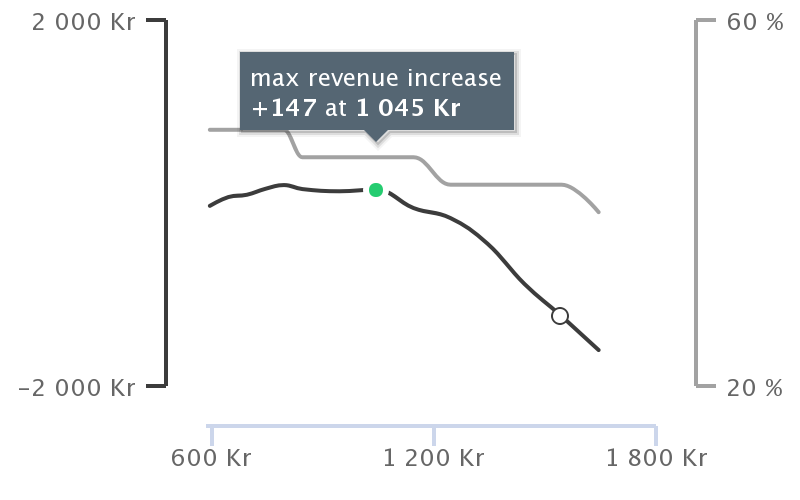
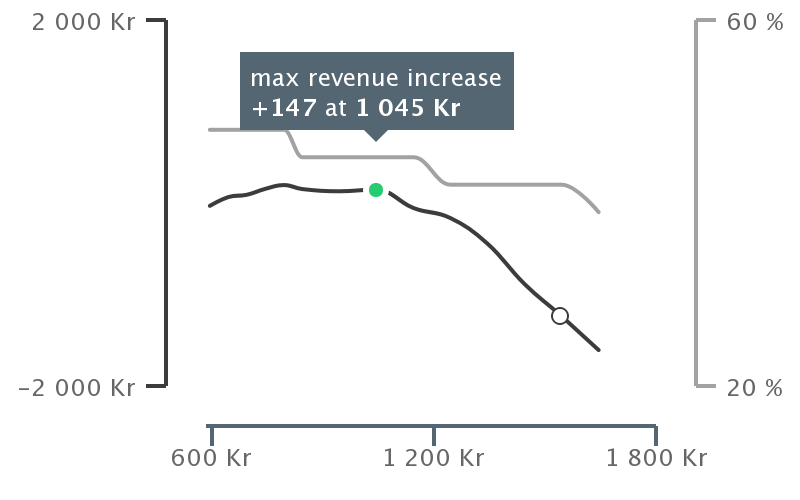
Adding Outlook font fix

Changed region(s): [[0.25, 0.84, 0.8438, 0.9], [0.2812, 0.09, 0.6562, 0.3]]

diff --git a/MailTemplate_v1.html b/MailTemplate_v1.html
@@ -226,6 +226,15 @@
 
         }
     </style>
+
+
+    <!--[if mso]>
+    <style type="text/css">
+        body, h1, table, td {font-family: Arial, Helvetica, sans-serif !important;}
+    </style>
+    <![endif]-->
+
+
 </head>
 <body leftmargin="0" topmargin="0" marginwidth="0" marginheight="0" bgcolor="#F0F0F0"
       style="font-family: 'Roboto', sans-serif;margin:0; padding:0; -webkit-text-size-adjust:none; -ms-text-size-adjust:none;">
@@ -236,7 +245,7 @@
 
             <!-- Hidden Preheader Text : BEGIN -->
             <div style="display:none; visibility:hidden; opacity:0; color:transparent; height:0; width:0;line-height:0; overflow:hidden;mso-hide: all;">
-                Visually hidden preheader text.
+                Here is the most important updates you can do today. Please take some time to review the recommendations.
             </div>
             <!-- Hidden Preheader Text : END -->
 
@@ -289,7 +298,7 @@
 
             <!--MOST URGENT CHANGES-->
 
-            <table border="0" width="600" cellpadding="0" cellspacing="0" valign="top" class="email-container"
+            <table border="0" width="600" cellpadding="0" cellspacing="0" valign="top" align="center" class="email-container"
                    style="border-radius: 8px;background: #ffffff;padding:10px;box-shadow: 0 0 20px 0 rgba(87,87,87,0.24);margin: auto;">
 
                 <tr>
@@ -344,87 +353,7 @@
 
                                             <td style="padding-right: 20px;">
                                                 <table cellspacing="0" cellpadding="0" valign="top" border="0"
-                                                       style="background-color:#25CC70;border-radius: 5px;width:100%">
-                                                    <tr style="font-weight: bold;color: #ffffff">
-                                                        <td style="padding-top: 4px;padding-bottom: 4px; padding-left:10px; text-align: left">
-                                                            Seaview Executive Suite
-                                                        </td>
-                                                        <td style="padding-top: 4px;padding-bottom: 4px; padding-right:10px; text-align: right">
-                                                            01 Mar 2017
-                                                        </td>
-                                                    </tr>
-                                                </table>
-                                            </td>
-
-
-                                        </tr>
-
-
-                                    </table>
-
-                                </td>
-
-
-                            </tr>
-
-                            <tr>
-                                <td style="padding-right: 20px;">
-                                    <table class="email-container" cellspacing="0" cellpadding="0"
-                                           style="width:100%;border-bottom:1px solid #D8D8D8;margin:10px;">
-                                        <tr>
-                                            <td class="hh-force-col">
-                                                <table class="prediction-table" style="margin: 0 10px 10px 60px;"
-                                                       cellpadding="0"
-                                                       cellspacing="0">
-                                                    <tr>
-                                                        <td>
-                                                            <span style="margin:0 6px 0 10px">1695 kr</span>
-                                                            <span style="margin-right: 6px;color: #888888;">&rarr;</span>
-                                                            <span style="margin-right: 20px">2495 kr</span>
-                                                            <span style="color: #25CC70">+ 2150</span>
-                                                        </td>
-                                                    </tr>
-                                                </table>
-                                            </td>
-                                            <td class="hh-force-col">
-                                                <table class="email-container" style="margin: 0 -25px 10px 0;"
-                                                       cellpadding="0" cellspacing="0">
-                                                    <tr>
-                                                        <td style="color:#A2A2A2;text-align: right;padding-bottom: 5px">
-                                                            (for 12
-                                                            rooms)
-                                                        </td>
-                                                    </tr>
-                                                </table>
-                                            </td>
-                                        </tr>
-                                    </table>
-                                </td>
-                            </tr>
-                            <!--  URGENT CHANGE  : END -->
-
-
-                            <!-- URGENT CHANGE : 2 BEGIN -->
-                            <tr>
-                                <td>
-                                    <table style="width: 100%;margin: 0 10px 0;" cellpadding="0" cellspacing="0"
-                                           class="email-container">
-                                        <tr>
-
-                                            <td>
-                                                <table cellspacing="0" cellpadding="0" valign="top" border="0" style="background-color: #ffffff;border-radius: 50px;border: 1px solid #2A8FBD;
-                                               border-collapse: separate;">
-                                                    <tr>
-                                                        <td style="padding: 8px 12px;font-size: 12px;font-weight: bold;color: #3C3C3C">
-                                                            1
-                                                        </td>
-                                                    </tr>
-                                                </table>
-                                            </td>
-
-                                            <td style="padding-right: 20px;">
-                                                <table cellspacing="0" cellpadding="0" valign="top" border="0"
-                                                       style="background-color:#25CC70;border-radius: 5px;width:100%">
+                                                       style="background-color:#556673;border-radius: 5px;width:100%">
                                                     <tr style="font-weight: bold;color: #ffffff">
                                                         <td style="padding-top: 4px;padding-bottom: 4px; padding-left:10px; text-align: left">
                                                             Seaview Executive Suite
@@ -511,7 +440,7 @@
 
             <!-- DETAILED HEADER BODY : BEGIN -->
             <table border="0" width="600" cellpadding="0" cellspacing="0" align="center" class="email-container"
-                   style="border-top-left-radius: 8px;border-top-right-radius: 8px;background: #25CC70;padding:10px;box-shadow: 0 0 20px 0 rgba(87,87,87,0.24);margin: auto;margin-top: 20px;">
+                   style="border-top-left-radius: 8px;border-top-right-radius: 8px;background: #556673;padding:10px;box-shadow: 0 0 20px 0 rgba(87,87,87,0.24);margin: auto;margin-top: 20px;">
                 <tr>
                     <td style="padding: 8px;">
                         <table cellspacing="0" cellpadding="0"
@@ -525,7 +454,7 @@
                     </td>
                     <td>
                         <table cellspacing="0" cellpadding="0"
-                               style="background-color:#25CC70;border-radius: 5px;width:100%">
+                               style="border-radius: 5px;width:100%">
                             <tr style="font-weight: bold;color: #ffffff">
                                 <td style="padding: 4px 10px; text-align: left">Seaview Executive Suite</td>
                                 <td style="padding: 4px 20px; text-align: right">01 Mar 2017</td>
@@ -672,7 +601,7 @@
                             </tr>
                             <tr>
                                 <td align="center" valign="middle" style="text-align: center">
-                                    <img width="580" class="graph-img" style="width: 560px;" src="graphs/chart.jpeg"/>
+                                    <img width="580" class="graph-img" style="width: 560px;" alt="Room price vs. occupancy & change in revenue" src="graphs/chart.png"/>
                                 </td>
                             </tr>
 

diff --git a/graph_v2.html b/graph_v2.html
@@ -81,6 +81,8 @@
                 offset: 20,
                 tickWidth: 2,
                 tickAmount: 3,
+                lineColor:'#556673',
+                tickColor:'#556673',
 
                 labels: {
                     format: '{value:,.0f} Kr',
@@ -193,7 +195,7 @@
                             backgroundColor: '#556673',
                             borderWidth: 0,
                             borderColor: '#556673',
-                            shadow: true,
+                            shadow: false,
                             y: -30,
                             style:{
                                 color:'#FFFFFF',
